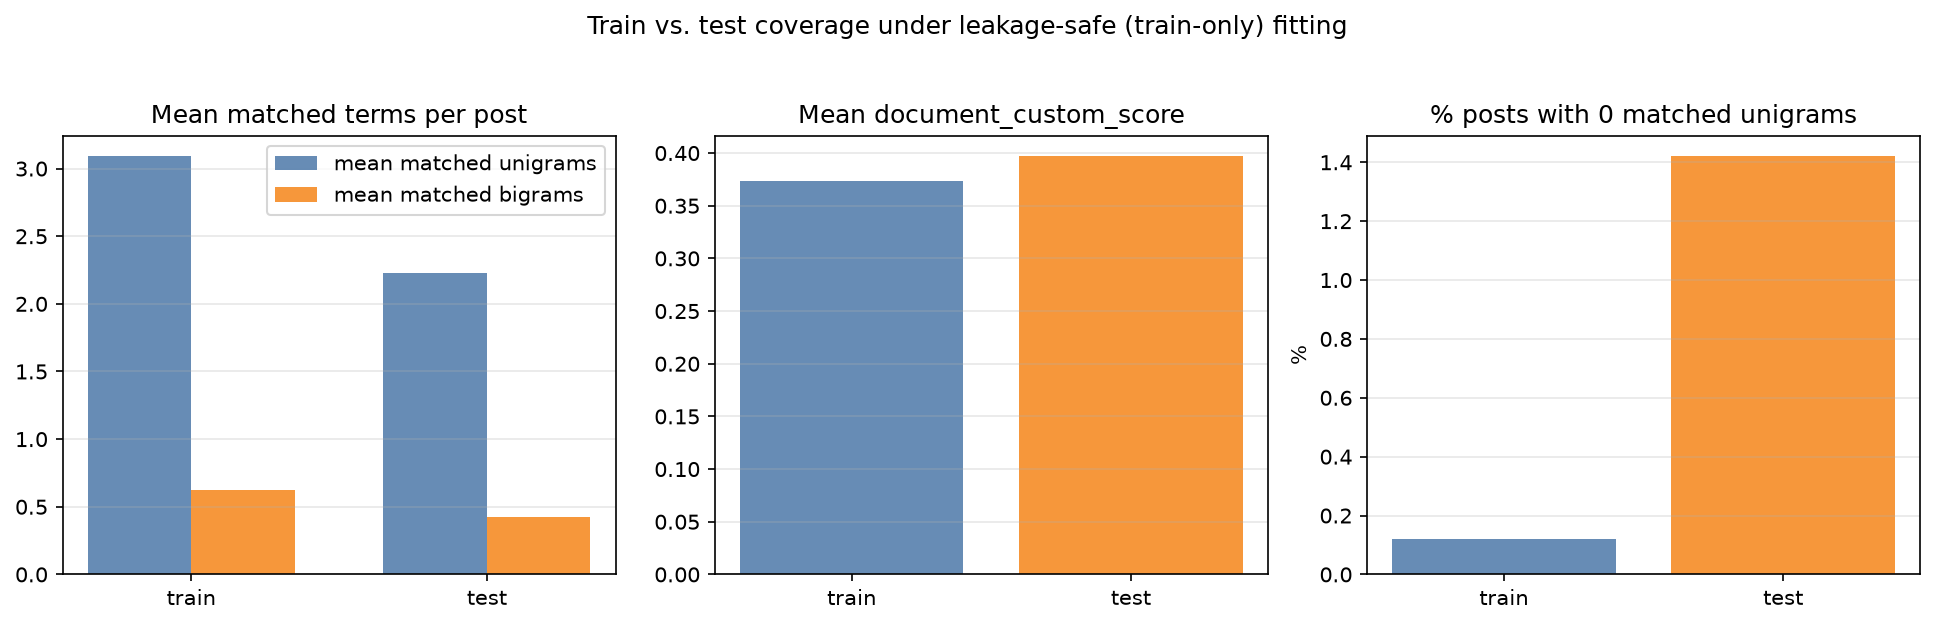
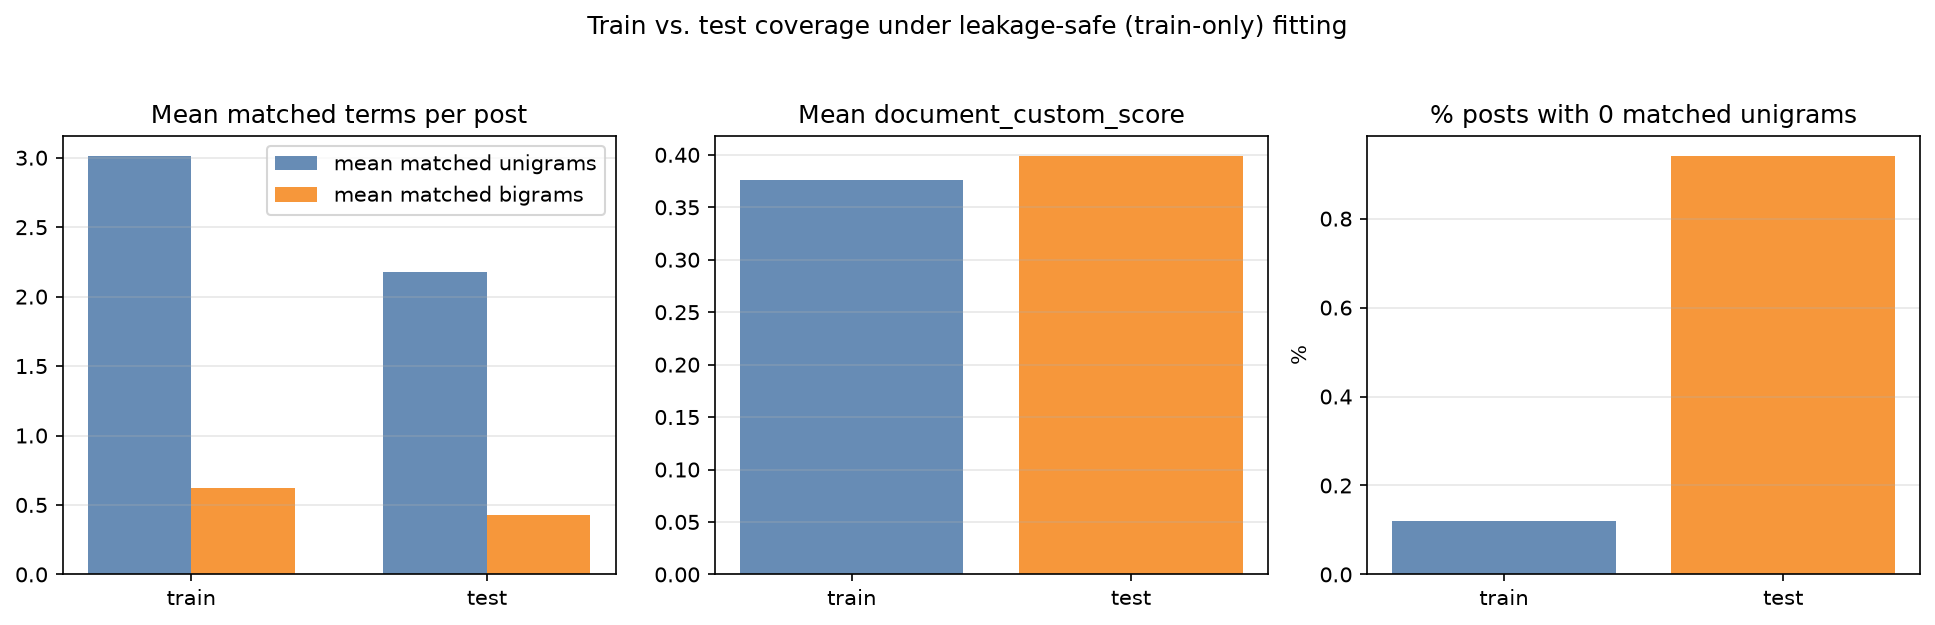
Fix target leakage

diff --git a/src/section_4_feature_discovery/topic_custom_scoring.py b/src/section_4_feature_discovery/topic_custom_scoring.py
@@ -13,6 +13,14 @@ Combines multiple scoring signals into term-level and document-level scores:
 Component scores are min-max normalised within each topic before weighting.
 Weights are exported for transparency and report documentation.
 
+score_documents() supports two modes: use_true_topic=True (default here,
+for descriptive Section 4.1-4.2 reporting) scores each post against its
+own ground-truth topic's lookup tables. use_true_topic=False scores a
+post against every topic's lookup tables and keeps the best match - this
+mode is required whenever the output feeds a topic classifier, since
+indexing by the true label would leak the target into the feature. See
+topic_classification_features.py, which uses use_true_topic=False.
+
 Input : data/features/hackernews_topic_features_dataset.csv
         results/tables/section_4/topic_term_frequency_full.csv
         results/tables/section_4/topic_tfidf_global_full.csv
@@ -367,58 +375,89 @@ def build_bigram_lookup(bigram_scores_df):
     return lookup
 
 
-def score_documents(df, term_lookup, bigram_lookup):
-    """Compute document-level custom scores for each post."""
+def score_document_against_topic(tokens, bigrams, topic_terms, topic_bigrams):
+    """Score one document's tokens/bigrams against a single topic's lookup tables."""
+    unigram_scores = [
+        topic_terms[token]["custom_term_score"]
+        for token in tokens
+        if token in topic_terms
+    ]
+    bigram_scores = [
+        topic_bigrams[bigram]
+        for bigram in bigrams
+        if bigram in topic_bigrams
+    ]
+    positional_scores = [
+        topic_terms[token]["positional_score_norm"] * position_weight(index)
+        for index, token in enumerate(tokens)
+        if token in topic_terms
+    ]
+
+    document_unigram_score = float(np.mean(unigram_scores)) if unigram_scores else 0.0
+    document_bigram_score = float(np.mean(bigram_scores)) if bigram_scores else 0.0
+    document_positional_score = float(np.mean(positional_scores)) if positional_scores else 0.0
+
+    document_custom_score = (
+        DOCUMENT_COMPONENT_WEIGHTS["document_unigram_score"] * document_unigram_score
+        + DOCUMENT_COMPONENT_WEIGHTS["document_bigram_score"] * document_bigram_score
+        + DOCUMENT_COMPONENT_WEIGHTS["document_positional_score"] * document_positional_score
+    )
+
+    return {
+        "document_unigram_score": document_unigram_score,
+        "document_bigram_score": document_bigram_score,
+        "document_positional_score": document_positional_score,
+        "document_custom_score": document_custom_score,
+        "matched_unigram_count": len(unigram_scores),
+        "matched_bigram_count": len(bigram_scores),
+    }
+
+
+def score_documents(df, term_lookup, bigram_lookup, use_true_topic=True):
+    """
+    Compute document-level custom scores for each post.
+
+    use_true_topic=True (default, used for the Section 4.1-4.2 descriptive
+    analysis) scores each document against its own ground-truth topic's
+    lookup tables - appropriate for exploratory "how well does this post
+    match its assigned topic's vocabulary" reporting.
+
+    use_true_topic=False scores each document against EVERY topic's lookup
+    tables and keeps the best-matching topic's scores. This must be used
+    whenever the output feeds a topic classifier: selecting the lookup by
+    the document's true topic label would leak the target into the
+    feature (the score would only be computable if the topic were already
+    known), whereas scoring against all topics and taking the best match
+    is a topic-agnostic, leakage-free signal.
+    """
     enriched_rows = []
 
     for _, row in df.iterrows():
-        topic = row["topic"]
         tokens = tokenize_for_topic_analysis(row[TEXT_COLUMN])
         bigrams = extract_bigrams(tokens)
 
-        topic_terms = term_lookup.get(topic, {})
-        topic_bigrams = bigram_lookup.get(topic, {})
+        if use_true_topic:
+            candidate_topics = [row["topic"]]
+        else:
+            candidate_topics = list(term_lookup.keys())
 
-        unigram_scores = [
-            topic_terms[token]["custom_term_score"]
-            for token in tokens
-            if token in topic_terms
-        ]
-        bigram_scores = [
-            topic_bigrams[bigram]
-            for bigram in bigrams
-            if bigram in topic_bigrams
-        ]
-        positional_scores = [
-            topic_terms[token]["positional_score_norm"] * position_weight(index)
-            for index, token in enumerate(tokens)
-            if token in topic_terms
-        ]
+        best_scores = None
+        for topic in candidate_topics:
+            topic_terms = term_lookup.get(topic, {})
+            topic_bigrams = bigram_lookup.get(topic, {})
+            scores = score_document_against_topic(tokens, bigrams, topic_terms, topic_bigrams)
 
-        document_unigram_score = (
-            float(np.mean(unigram_scores)) if unigram_scores else 0.0
-        )
-        document_bigram_score = (
-            float(np.mean(bigram_scores)) if bigram_scores else 0.0
-        )
-        document_positional_score = (
-            float(np.mean(positional_scores)) if positional_scores else 0.0
-        )
-
-        document_custom_score = (
-            DOCUMENT_COMPONENT_WEIGHTS["document_unigram_score"] * document_unigram_score
-            + DOCUMENT_COMPONENT_WEIGHTS["document_bigram_score"] * document_bigram_score
-            + DOCUMENT_COMPONENT_WEIGHTS["document_positional_score"] * document_positional_score
-        )
+            if best_scores is None or scores["document_custom_score"] > best_scores["document_custom_score"]:
+                best_scores = scores
 
         enriched_rows.append({
             **row.to_dict(),
-            "document_unigram_score": round(document_unigram_score, 6),
-            "document_bigram_score": round(document_bigram_score, 6),
-            "document_positional_score": round(document_positional_score, 6),
-            "document_custom_score": round(document_custom_score, 6),
-            "matched_unigram_count": len(unigram_scores),
-            "matched_bigram_count": len(bigram_scores),
+            "document_unigram_score": round(best_scores["document_unigram_score"], 6),
+            "document_bigram_score": round(best_scores["document_bigram_score"], 6),
+            "document_positional_score": round(best_scores["document_positional_score"], 6),
+            "document_custom_score": round(best_scores["document_custom_score"], 6),
+            "matched_unigram_count": best_scores["matched_unigram_count"],
+            "matched_bigram_count": best_scores["matched_bigram_count"],
         })
 
     return pd.DataFrame(enriched_rows)

diff --git a/src/section_4_feature_discovery/topic_classification_features.py b/src/section_4_feature_discovery/topic_classification_features.py
@@ -168,8 +168,13 @@ def main():
     # Apply the train-fitted lookup to ALL posts (train + test).
     # Tokens/bigrams unseen in training simply have no lookup entry and
     # are skipped by score_documents, i.e. treated as out-of-vocabulary.
+    #
+    # use_true_topic=False: score each post against every topic's lookup
+    # and keep the best match, rather than indexing by the post's own
+    # ground-truth topic. Selecting by the true label would leak the
+    # classification target into the feature itself.
     # ----------------------------------------------------------------
-    enriched_df = score_documents(df, term_lookup, bigram_lookup)
+    enriched_df = score_documents(df, term_lookup, bigram_lookup, use_true_topic=False)
     enriched_df["split"] = df["split"].values
 
     output_columns = [
